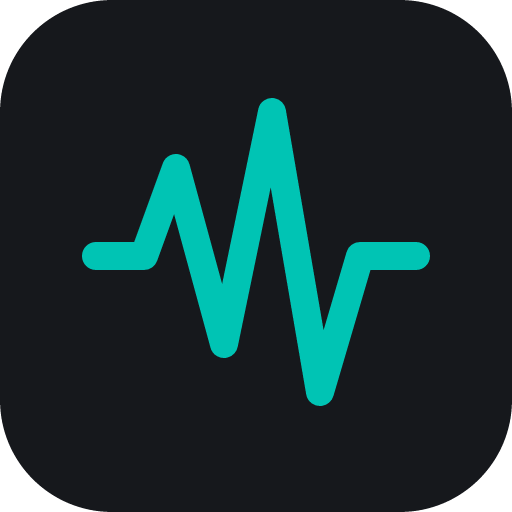
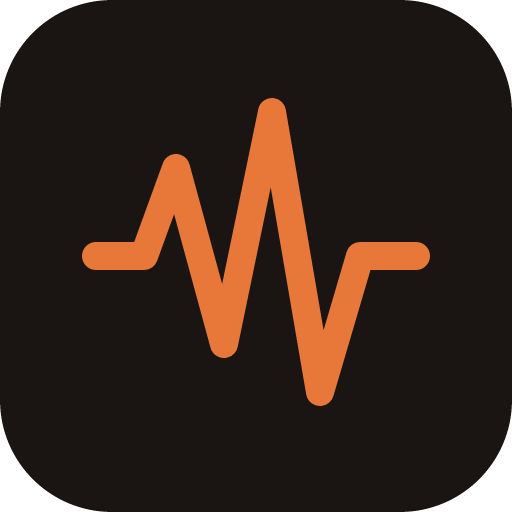
狐・柴犬をイメージした暖色パレットに変更
既存のCSSカラートークン値を、焦げ茶ベース＋狐オレンジアクセントへ差し替え。
アプリアイコンも同じ配色に揃えた。

Changed region(s): [[0.1562, 0.1875, 0.8438, 0.8125]]

diff --git a/frontend/src/styles.css b/frontend/src/styles.css
@@ -57,46 +57,46 @@
   /* Elevation */
   --shadow-popup: 0 16px 64px var(--color-shadow);
 
-  /* Surfaces */
-  --color-bg: #16181c;
-  --color-surface: #1b1e23;
-  --color-surface-raised: #20242a;
-  --color-control: #2a2e36;
-  --color-control-hover: #343a44;
+  /* Surfaces — 狐・柴犬の焦げ茶〜ダークファーをイメージした暖色ベース */
+  --color-bg: #1a1512;
+  --color-surface: #241e1a;
+  --color-surface-raised: #2c241e;
+  --color-control: #3a3028;
+  --color-control-hover: #4a3c32;
 
-  /* Text */
-  --color-text: #e6e8ec;
-  --color-text-secondary: #abb3c0;
-  --color-text-muted: #8c94a0;
-  --color-text-tertiary: #cbd1db;
+  /* Text — クリーム毛並み寄りのオフホワイト */
+  --color-text: #f3e8dc;
+  --color-text-secondary: #b8a898;
+  --color-text-muted: #9a8a78;
+  --color-text-tertiary: #d4c4b0;
 
   /* Borders */
-  --color-border: #373c46;
-  --color-border-strong: #4c5563;
-  --color-border-muted: #53626d;
+  --color-border: #43362c;
+  --color-border-strong: #5a4a3c;
+  --color-border-muted: #6a5848;
   --color-high-contrast: white;
 
-  /* Accent */
-  --color-accent: #00c4b4;
-  --color-on-accent: #0a1416;
-  --color-accent-soft: #6ee7da;
-  --color-accent-plot: #63ded1;
+  /* Accent — 狐オレンジ / 柴犬コート */
+  --color-accent: #e8783a;
+  --color-on-accent: #1a120c;
+  --color-accent-soft: #f0a070;
+  --color-accent-plot: #e8783a;
 
   /* Status */
   --color-danger: light-dark(#a80000, #ff9090);
   --color-warning: #ffd092;
-  --color-warning-muted: #e8c483;
+  --color-warning-muted: #e8c9a0;
 
   /* Overlay / shadow */
   --color-overlay: #0009;
   --color-shadow: #0008;
 
   /* Plot / chart */
-  --color-plot-label: #bbc5d0;
-  --color-plot-axis: #66727e;
-  --color-plot-reference: #84909d;
-  --color-plot-point: #eafbf7;
-  --color-plot-point-stroke: #273c3c;
+  --color-plot-label: #c4b4a0;
+  --color-plot-axis: #6a5848;
+  --color-plot-reference: #8a7868;
+  --color-plot-point: #fff5eb;
+  --color-plot-point-stroke: #3a2a1c;
 
   font-family: var(--font-family);
   font-size: var(--font-size-base);
